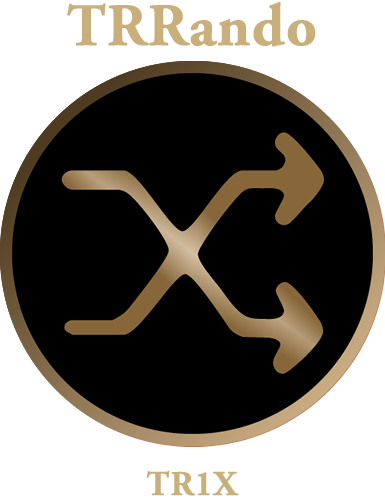
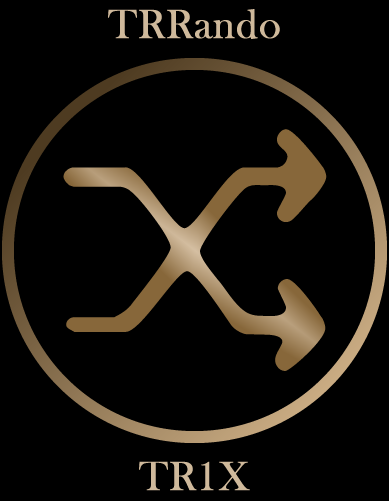
Update branding
Adds the rando logo to the title screen and inserts a credits page for end-game.

diff --git a/TRRandomizerCore/Editors/TR2ClassicEditor.cs b/TRRandomizerCore/Editors/TR2ClassicEditor.cs
@@ -1,6 +1,8 @@
 using Newtonsoft.Json;
+using System.Drawing;
 using TRGE.Coord;
 using TRGE.Core;
+using TRImageControl;
 using TRLevelControl.Model;
 using TRRandomizerCore.Helpers;
 using TRRandomizerCore.Processors;
@@ -11,6 +13,8 @@ namespace TRRandomizerCore.Editors;
 
 public class TR2ClassicEditor : TR2LevelEditor, ISettingsProvider
 {
+    private static readonly Point _regularBadgePos = new(1467, 26);
+
     public RandomizerSettings Settings { get; private set; }
 
     public TR2ClassicEditor(TRDirectoryIOArgs args, TREdition edition)
@@ -370,5 +374,52 @@ public class TR2ClassicEditor : TR2LevelEditor, ISettingsProvider
             monitor.FireSaveStateBeginning(TRSaveCategory.Custom, "Randomizing Sprites");
             itemRandomizer.RandomizeSprites();
         }
+
+        AmendTitleAndCredits(scriptEditor, monitor);
+    }
+
+    private void AmendTitleAndCredits(AbstractTRScriptEditor scriptEditor, TRSaveMonitor monitor)
+    {
+        var script = scriptEditor.Script as TRXScript;
+
+        string mainMenuPic = Path.GetFileName(script.MainMenuPicture);
+        string backupTitle = Path.Combine(GetReadBasePath(), mainMenuPic);
+        if (File.Exists(backupTitle))
+        {
+            string editedTitle = Path.Combine(GetWriteBasePath(), "title.png");
+            TRImage bg = new(backupTitle);
+            TRImage badge = new("Resources/Shared/Graphics/tr2badge-small.png");
+            bg.Import(badge, _regularBadgePos, true);
+
+            bg.Save(editedTitle);
+
+            string titlePath = "data/title.png";
+            script.MainMenuPicture = titlePath;
+            script.AddAdditionalBackupFile(titlePath);
+        }
+
+        {
+            string creditFile = Path.Combine(_io.OutputDirectory.FullName, "trrando.png");
+            string creditPath = "data/trrando.png";
+
+            TRImage bg = new(1920, 1080);
+            TRImage badge = new("Resources/Shared/Graphics/tr2badge-large.png");
+            bg.Fill(Color.Black);
+            bg.Import(badge, new(960 - badge.Width / 2, 540 - badge.Height / 2), true);
+            bg.Save(creditFile);
+
+            var finalLevel = scriptEditor.Levels.ToList().Find(l => l.IsFinalLevel) as TRXScriptedLevel;
+            finalLevel.AddSequenceBefore(LevelSequenceType.Total_Stats, new DisplayPictureSequence
+            {
+                Type = LevelSequenceType.Display_Picture,
+                DisplayTime = 5,
+                Path = creditFile,
+            });
+
+            script.AddAdditionalBackupFile(creditPath);
+        }
+
+        scriptEditor.SaveScript();
+        monitor.FireSaveStateChanged(1);
     }
 }
